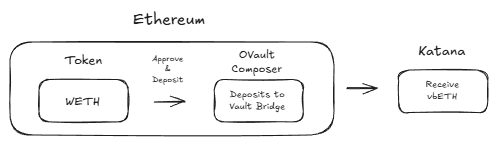
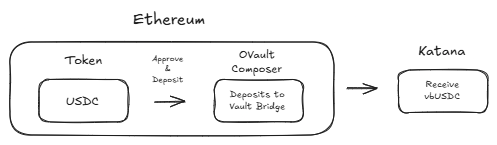
update deployed OFT
Create example tutorial referencing the scripts demo

Bridging limited to stable coins only

diff --git a/docs/katana/how-to/bridge-to-katana-with-layerzero.md b/docs/katana/how-to/bridge-to-katana-with-layerzero.md
@@ -1,0 +1,316 @@
+# Bridge USDC to Katana with LayerZero
+
+All bridged funds on Katana go through the Vault Bridge, which deposits assets into ERC-4626 vaults on Ethereum and bridges the resulting vault shares to Katana via LayerZero OFT. This means users earn yield on their bridged assets automatically.
+
+`Ethereum → Katana` <br>
+![ETH Bridge](../../img/bridges/ethtokatanabridge.png)
+
+Coming from Mainnet Ethereum, your token (USDC in this guide) is deposited into the Vault Bridge through the OVault Composer. The Composer deposits the token into the vault, receives shares, and bridges those shares to Katana. On arrival, the user receives vbUSDC tokens on Katana.
+
+`L2 → Ethereum → Katana` <br>
+![ETH Bridge](../../img/bridges/l2toethtokatana.png)
+
+Coming from an alternative L2, the asset must bridge back to Ethereum Mainnet first before depositing to the Vault Bridge and bridging shares to Katana.
+
+## Overview
+
+The deposit and bridge flow requires **two transactions** on Ethereum:
+
+1. **Approve** — Allow the OVault Composer to spend your USDC
+2. **Deposit & Bridge** — The Composer deposits USDC into the vault and bridges the minted shares to Katana via LayerZero
+
+```
+User (USDC on Ethereum)
+  │
+  ├─ TX 1: Approve USDC → OVaultComposer
+  │
+  └─ TX 2: depositAndSend()
+       ├─ Composer takes USDC from user
+       ├─ Deposits USDC into ERC-4626 Vault
+       ├─ Vault mints shares to Composer
+       └─ Composer bridges shares to Katana via LayerZero OFT
+             │
+             └─ User receives vbUSDC on Katana (~3-7 min)
+```
+
+A full working example can be found in the [lz-ops-demo repository](https://github.com/katana-network/lz-ops-demo).
+
+## Prerequisites
+
+### Key Contracts
+
+**Ethereum Mainnet**
+
+| Contract          | Address                                      | Explorer                                                                            |
+| ----------------- | -------------------------------------------- | ----------------------------------------------------------------------------------- |
+| USDC              | `0xA0b86991c6218b36c1d19D4a2e9Eb0cE3606eB48` | [etherscan](https://etherscan.io/address/0xA0b86991c6218b36c1d19D4a2e9Eb0cE3606eB48) |
+| OVault Composer   | `0x8A35897fda9E024d2aC20a937193e099679eC477` | [etherscan](https://etherscan.io/address/0x8A35897fda9E024d2aC20a937193e099679eC477) |
+| USDC Vault Bridge | `0x53E82ABbb12638F09d9e624578ccB666217a765e` | [etherscan](https://etherscan.io/address/0x53E82ABbb12638F09d9e624578ccB666217a765e) |
+| Share OFT Adapter | `0xb5bADA33542a05395d504a25885e02503A957Bb3` | [etherscan](https://etherscan.io/address/0xb5bADA33542a05395d504a25885e02503A957Bb3) |
+
+| Config            | Value     |
+| ----------------- | --------- |
+| Chain              | Ethereum Mainnet |
+| LayerZero EID     | `30101`   |
+
+**Katana**
+
+| Contract          | Address                                      | Explorer                                                                              |
+| ----------------- | -------------------------------------------- | ------------------------------------------------------------------------------------- |
+| Share OFT         | `0x807275727Dd3E640c5F2b5DE7d1eC72B4Dd293C0` | [katanascan](https://katanascan.com/address/0x807275727dd3e640c5f2b5de7d1ec72b4dd293c0) |
+
+| Config            | Value     |
+| ----------------- | --------- |
+| Chain              | Katana   |
+| LayerZero EID     | `30375`   |
+
+Other supported Vault Bridge assets:
+
+<!--
+| Asset | Vault Bridge Address                           | Explorer                                                                            |
+| ----- | ---------------------------------------------- | ----------------------------------------------------------------------------------- |
+| USDT  | `0x6d4f9f9f8f0155509ecd6Ac6c544fF27999845CC`  | [etherscan](https://etherscan.io/address/0x6d4f9f9f8f0155509ecd6Ac6c544fF27999845CC) |
+| WBTC  | `0x2C24B57e2CCd1f273045Af6A5f632504C432374F`  | [etherscan](https://etherscan.io/address/0x2C24B57e2CCd1f273045Af6A5f632504C432374F) |
+| WETH  | `0x2DC70fb75b88d2eB4715bc06E1595E6D97c34DFF`  | [etherscan](https://etherscan.io/address/0x2DC70fb75b88d2eB4715bc06E1595E6D97c34DFF) |
+-->
+
+All L2 Stargate pool contracts can be found in the [Stargate docs](https://docs.stargate.finance/resources/contracts/mainnet-contracts).
+
+### Environment Setup
+
+Set your private key in a `.env` file:
+
+```bash
+PRIVATE_KEY=your_private_key_here
+```
+
+### Dependencies
+
+Install the required packages:
+
+```bash
+npm install ethers @layerzerolabs/lz-v2-utilities dotenv
+```
+
+## Step 1: Configure the Script
+
+Start by importing your dependencies and setting up the configuration. This example bridges USDC, but you can swap in any supported Vault Bridge asset by changing the contract addresses.
+
+```typescript
+import { ethers } from 'ethers'
+import { parseUnits } from 'ethers/lib/utils'
+import { Options, addressToBytes32 } from '@layerzerolabs/lz-v2-utilities'
+
+const CONFIG = {
+    privateKey: process.env.PRIVATE_KEY!,
+
+    transaction: {
+        amount: '10.0',           // Amount of USDC to deposit
+        recipientAddress: '0x...', // Your address on Katana that will receive vbUSDC
+        slippageBps: 50,           // 0.5% slippage tolerance
+    },
+
+    ethereum: {
+        eid: 30101,
+        rpcUrl: 'https://ethereum-rpc.publicnode.com',
+    },
+
+    katana: {
+        eid: 30375,
+    },
+
+    contracts: {
+        asset: '0xA0b86991c6218b36c1d19D4a2e9Eb0cE3606eB48',    // USDC on Ethereum
+        vault: '0x53E82ABbb12638F09d9e624578ccB666217a765e',    // USDC Vault Bridge
+        composer: '0x8A35897fda9E024d2aC20a937193e099679eC477',  // OVault Composer
+        shareOFT: '0xb5bADA33542a05395d504a25885e02503A957Bb3', // Share OFT Adapter
+    },
+}
+```
+
+## Step 2: Set Up the Provider and Wallet
+
+Connect to Ethereum and create a signer from your private key:
+
+```typescript
+const ethereumProvider = new ethers.providers.JsonRpcProvider(CONFIG.ethereum.rpcUrl)
+const wallet = new ethers.Wallet(CONFIG.privateKey, ethereumProvider)
+
+console.log(`Wallet Address: ${wallet.address}`)
+```
+
+## Step 3: Check Your USDC Balance
+
+Before depositing, verify that your wallet has enough USDC:
+
+```typescript
+const erc20Abi = [
+    'function decimals() view returns (uint8)',
+    'function balanceOf(address) view returns (uint256)',
+    'function allowance(address,address) view returns (uint256)',
+    'function approve(address,uint256) returns (bool)',
+]
+
+const assetToken = new ethers.Contract(CONFIG.contracts.asset, erc20Abi, wallet)
+const assetDecimals = await assetToken.decimals()
+const amount = parseUnits(CONFIG.transaction.amount, assetDecimals)
+
+const balance = await assetToken.balanceOf(wallet.address)
+console.log(`USDC balance: ${ethers.utils.formatUnits(balance, assetDecimals)}`)
+
+if (balance.lt(amount)) {
+    throw new Error(
+        `Insufficient USDC. Need ${CONFIG.transaction.amount}, have ${ethers.utils.formatUnits(balance, assetDecimals)}`
+    )
+}
+```
+
+## Step 4: Preview the Vault Deposit
+
+Query the vault to see how many shares you'll receive for your USDC deposit. This uses the ERC-4626 `previewDeposit` function:
+
+```typescript
+const vaultAbi = [
+    'function decimals() view returns (uint8)',
+    'function previewDeposit(uint256) view returns (uint256)',
+]
+
+const vault = new ethers.Contract(CONFIG.contracts.vault, vaultAbi, ethereumProvider)
+const vaultDecimals = await vault.decimals()
+
+const expectedShares = await vault.previewDeposit(amount)
+const minShares = expectedShares.mul(10000 - CONFIG.transaction.slippageBps).div(10000)
+
+console.log(`USDC to deposit: ${ethers.utils.formatUnits(amount, assetDecimals)}`)
+console.log(`Expected vault shares: ${ethers.utils.formatUnits(expectedShares, vaultDecimals)}`)
+console.log(`Min shares (0.5% slippage): ${ethers.utils.formatUnits(minShares, vaultDecimals)}`)
+```
+
+The `minShares` value protects you from slippage — the transaction will revert if you receive fewer shares than this minimum.
+
+## Step 5: Quote the LayerZero Bridge Fee
+
+LayerZero charges a fee in ETH to relay your message from Ethereum to Katana. Use `quoteSend` on the Share OFT contract to get this fee:
+
+```typescript
+const sendParam = {
+    dstEid: CONFIG.katana.eid,
+    to: addressToBytes32(CONFIG.transaction.recipientAddress),
+    amountLD: expectedShares,
+    minAmountLD: minShares,
+    extraOptions: Options.newOptions().addExecutorLzReceiveOption(100000, 0).toHex(),
+    composeMsg: '0x',
+    oftCmd: '0x',
+}
+
+const oftAbi = [
+    'function quoteSend((uint32,bytes32,uint256,uint256,bytes,bytes,bytes),bool) view returns ((uint256,uint256))',
+]
+
+const shareOFT = new ethers.Contract(CONFIG.contracts.shareOFT, oftAbi, ethereumProvider)
+
+const quote = await shareOFT.quoteSend(
+    [
+        sendParam.dstEid,
+        sendParam.to,
+        sendParam.amountLD,
+        sendParam.minAmountLD,
+        sendParam.extraOptions,
+        sendParam.composeMsg,
+        sendParam.oftCmd,
+    ],
+    false // don't pay in LZ token
+)
+
+const bridgeFee = quote[0]
+console.log(`LayerZero bridge fee: ${ethers.utils.formatEther(bridgeFee)} ETH`)
+```
+
+Key parameters explained:
+
+- **`dstEid`** — The LayerZero endpoint ID for Katana (`30375`)
+- **`to`** — The recipient address on Katana, encoded as bytes32
+- **`amountLD`** — The amount of shares to bridge
+- **`minAmountLD`** — Minimum shares to receive (slippage protection)
+- **`extraOptions`** — Gas limit for the receive transaction on Katana (`100000` is sufficient)
+
+## Step 6: Approve USDC to the Composer
+
+The OVault Composer needs permission to transfer your USDC. Check the current allowance first to avoid unnecessary approvals:
+
+```typescript
+const allowance = await assetToken.allowance(wallet.address, CONFIG.contracts.composer)
+console.log(`Current allowance: ${ethers.utils.formatUnits(allowance, assetDecimals)}`)
+
+if (allowance.lt(amount)) {
+    console.log(`Approving ${CONFIG.transaction.amount} USDC...`)
+    const approveTx = await assetToken.approve(CONFIG.contracts.composer, amount)
+    console.log(`Approval tx: ${approveTx.hash}`)
+    await approveTx.wait()
+    console.log(`Approval confirmed`)
+}
+```
+
+## Step 7: Execute the Deposit and Bridge
+
+Call `depositAndSend` on the OVault Composer. This single transaction deposits your USDC into the vault and bridges the minted shares to Katana:
+
+```typescript
+const composerAbi = [
+    'function depositAndSend(uint256,(uint32,bytes32,uint256,uint256,bytes,bytes,bytes),address) payable',
+]
+
+const composer = new ethers.Contract(CONFIG.contracts.composer, composerAbi, wallet)
+
+const tx = await composer.depositAndSend(
+    amount,
+    [
+        sendParam.dstEid,
+        sendParam.to,
+        sendParam.amountLD,
+        sendParam.minAmountLD,
+        sendParam.extraOptions,
+        sendParam.composeMsg,
+        sendParam.oftCmd,
+    ],
+    wallet.address, // refund address for excess ETH
+    { value: bridgeFee }
+)
+
+console.log(`Transaction hash: ${tx.hash}`)
+console.log(`Waiting for confirmation...`)
+
+const receipt = await tx.wait()
+console.log(`Confirmed in block ${receipt.blockNumber}`)
+```
+
+The `depositAndSend` function does the following in a single call:
+
+1. Transfers USDC from your wallet to the Composer
+2. Deposits USDC into the ERC-4626 vault on Ethereum
+3. Bridges the minted vault shares to your recipient address on Katana via LayerZero
+
+## What Happens Next
+
+After your Ethereum transaction confirms, the bridging process is handled by LayerZero:
+
+1. LayerZero validators confirm the cross-chain message (~1-2 minutes)
+2. The LayerZero executor delivers the shares to Katana (~2-5 minutes)
+3. Your recipient address receives vbUSDC on Katana
+
+You can track the bridge status at:
+
+- **LayerZero Scan**: `https://layerzeroscan.com/tx/<your_tx_hash>`
+- **Etherscan**: `https://etherscan.io/tx/<your_tx_hash>`
+
+
+## Full Example
+
+A complete runnable script with all of the steps above is available in the [lz-ops-demo repository](https://github.com/katana-network/lz-ops-demo) as well as a layer2 chain example. Clone the repo and run:
+
+```bash
+git clone https://github.com/katana-network/lz-ops-demo.git
+cd lz-ops-demo
+npm install
+npx ts-node scripts/1-ethereum-to-katana-deposit.ts
+```

diff --git a/docs/katana/technical-reference/bridging.md b/docs/katana/technical-reference/bridging.md
@@ -42,13 +42,6 @@ Note: The `networkId` (i.e. Agglayer Id) for Katana is `20`. For EthMainnet it's
 
 #### LayerZero
 
-Due to the nature of Vault Bridge (vb) Assets, all bridged funds must go through the Vault Bridge for all Katana assets to continue to earn yield for its users <br>
-`Ethereum → Katana` <br>
-![ETH Bridge](../../img/bridges/ethtokatanabridge.png)
-
-`L2 → Ethereum → Katana`
-![ETH Bridge](../../img/bridges/l2toethtokatana.png)
-
 | config            | value                                        |                                                                                       |
 | ----------------- | -------------------------------------------- | ------------------------------------------------------------------------------------- |
 | chainKey          | `katana`                                     |                                                                                       |
@@ -60,17 +53,6 @@ Due to the nature of Vault Bridge (vb) Assets, all bridged funds must go through
 | blockedMessageLib | `0xc1ce56b2099ca68720592583c7984cab4b6d7e7a` | [explorer](https://katanascan.com/address/0xc1ce56b2099ca68720592583c7984cab4b6d7e7a) |
 | executor          | `0x4208D6E27538189bB48E603D6123A94b8Abe0A0b` | [explorer](https://katanascan.com/address/0x4208D6E27538189bB48E603D6123A94b8Abe0A0b) |
 | deadDVN           | `0x6788f52439ACA6BFF597d3eeC2DC9a44B8FEE842` | [explorer](https://katanascan.com/address/0x6788f52439ACA6BFF597d3eeC2DC9a44B8FEE842) |
+| shareOFT          | `0x807275727Dd3E640c5F2b5DE7d1eC72B4Dd293C0` | [explorer](https://katanascan.com/address/0x807275727dd3e640c5f2b5de7d1ec72b4dd293c0) |
 
-| config            | value                                        |                                                                                       |
-| ----------------- | -------------------------------------------- | ------------------------------------------------------------------------------------- |
-| chainKey          | `Ethereum mainnet`                           |                                                                                       |
-| stage             | `mainnet`                                    |                                                                                       |
-| EID               | `30101`                                      |                                                                                       |
-| OVault composer   | `0x8A35897fda9E024d2aC20a937193e099679eC477` | [explorer](https://etherscan.io/address/0x8A35897fda9E024d2aC20a937193e099679eC477)   |
-| shareOFT          | `0xC39161c743D0307EB9BCc9FEF03eeb9Dc4802de7` | [explorer](https://etherscan.io/address/0xb5bADA33542a05395d504a25885e02503A957Bb3)   |
-| vbUSDC            | `0x53E82ABbb12638F09d9e624578ccB666217a765e` | [explorer](https://etherscan.io/address/0x53E82ABbb12638F09d9e624578ccB666217a765e)   |
-| vbUSDT            | `0x6d4f9f9f8f0155509ecd6Ac6c544fF27999845CC` | [explorer](https://etherscan.io/address/0x6d4f9f9f8f0155509ecd6Ac6c544fF27999845CC)   |
-| vbWBTC            | `0x2C24B57e2CCd1f273045Af6A5f632504C432374F` | [explorer](https://etherscan.io/address/0x2C24B57e2CCd1f273045Af6A5f632504C432374F)   |
-| vbETH             | `0x2DC70fb75b88d2eB4715bc06E1595E6D97c34DFF` | [explorer](https://etherscan.io/address/0x2DC70fb75b88d2eB4715bc06E1595E6D97c34DFF)   |
-
-An example for bridging through LayerZero can be found [here](https://github.com/katana-network/lz-ops-demo)
+An Example to bridge with Layer Zero can be found [here](../how-to/bridge-to-katana-with-layerzero.md)
